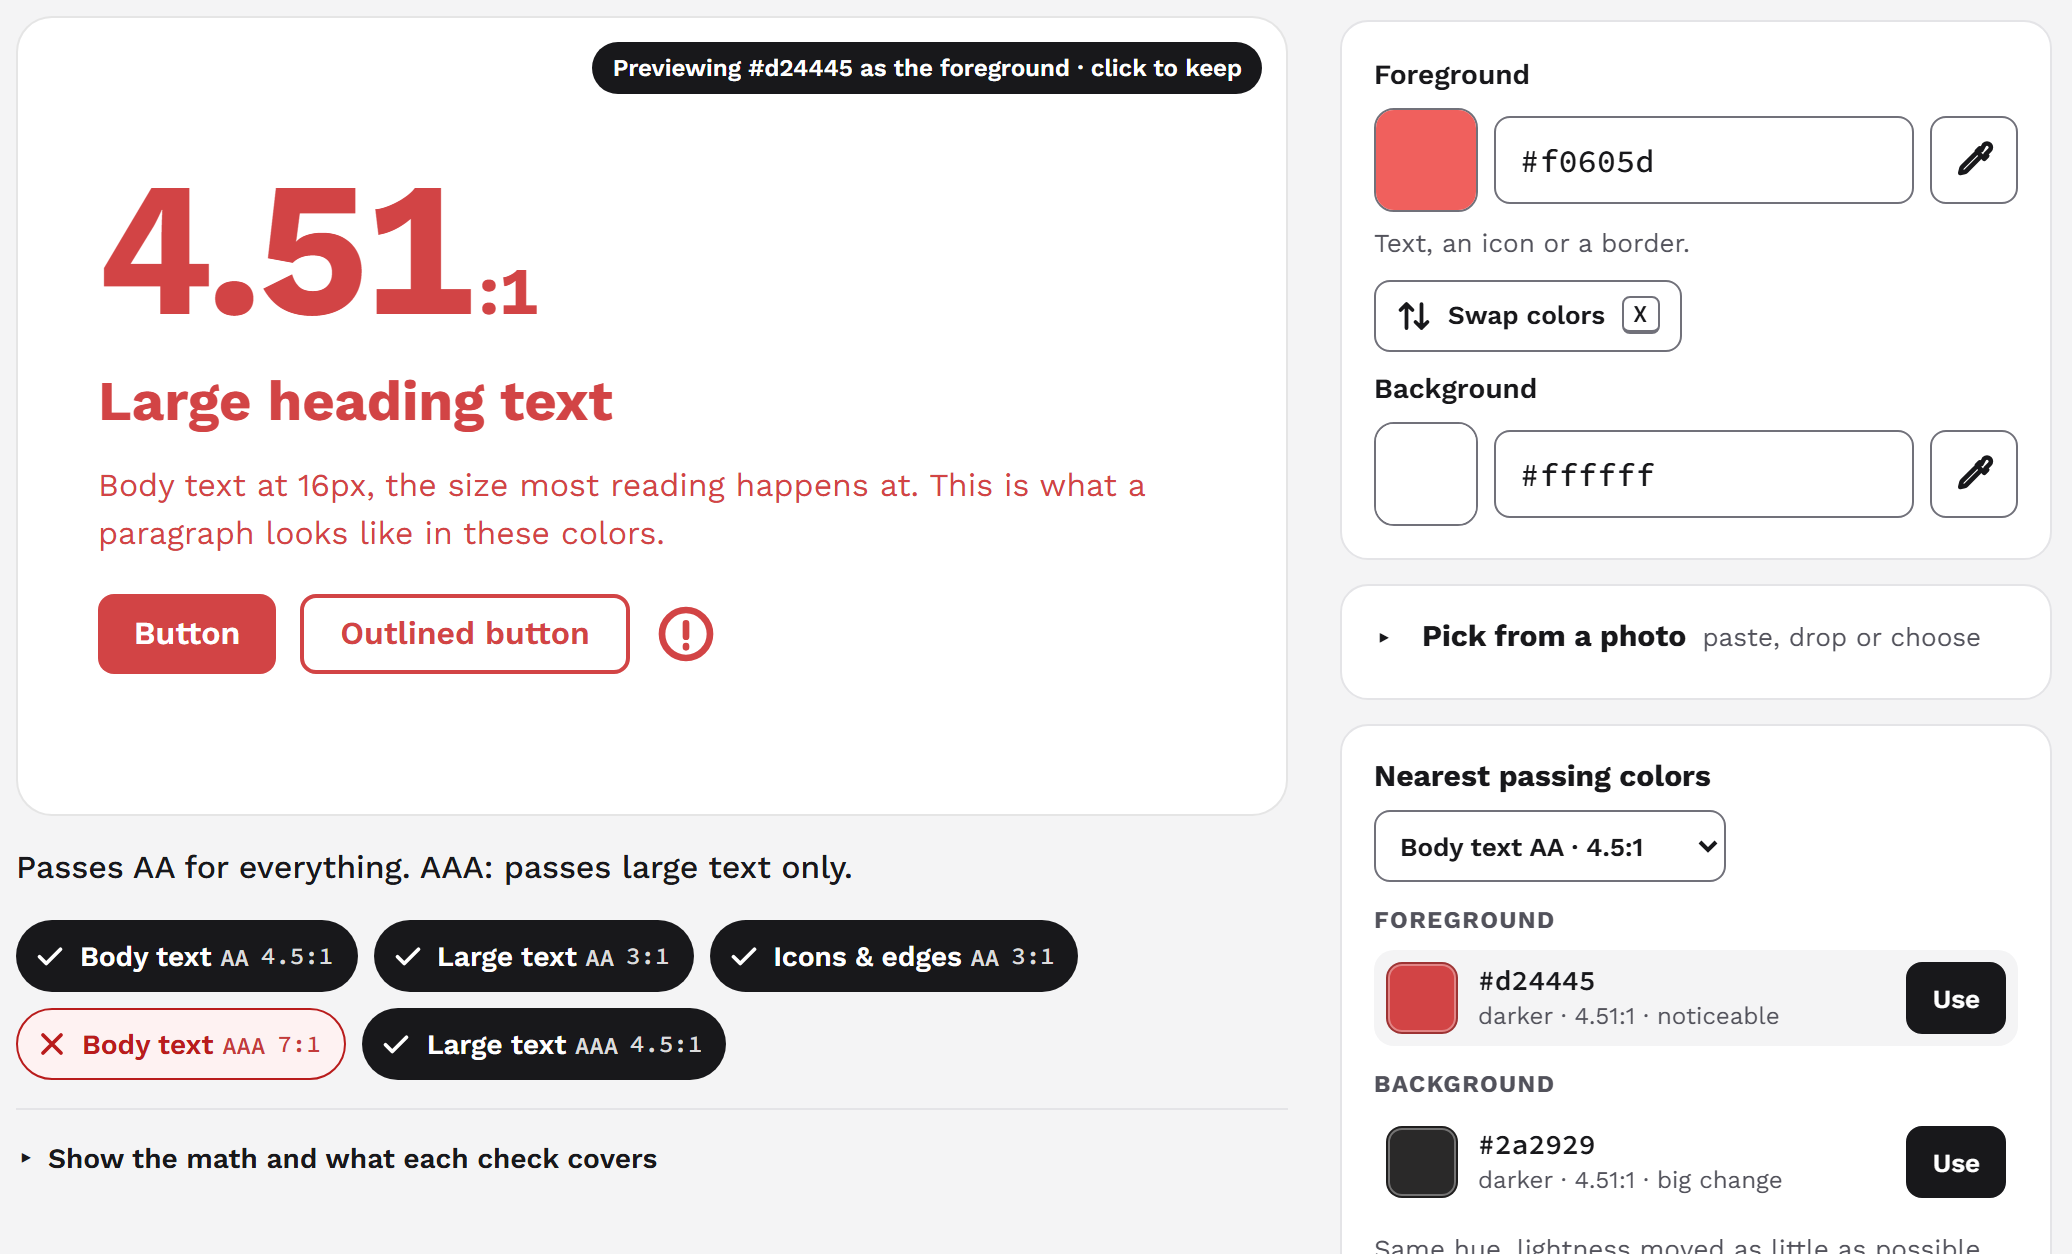
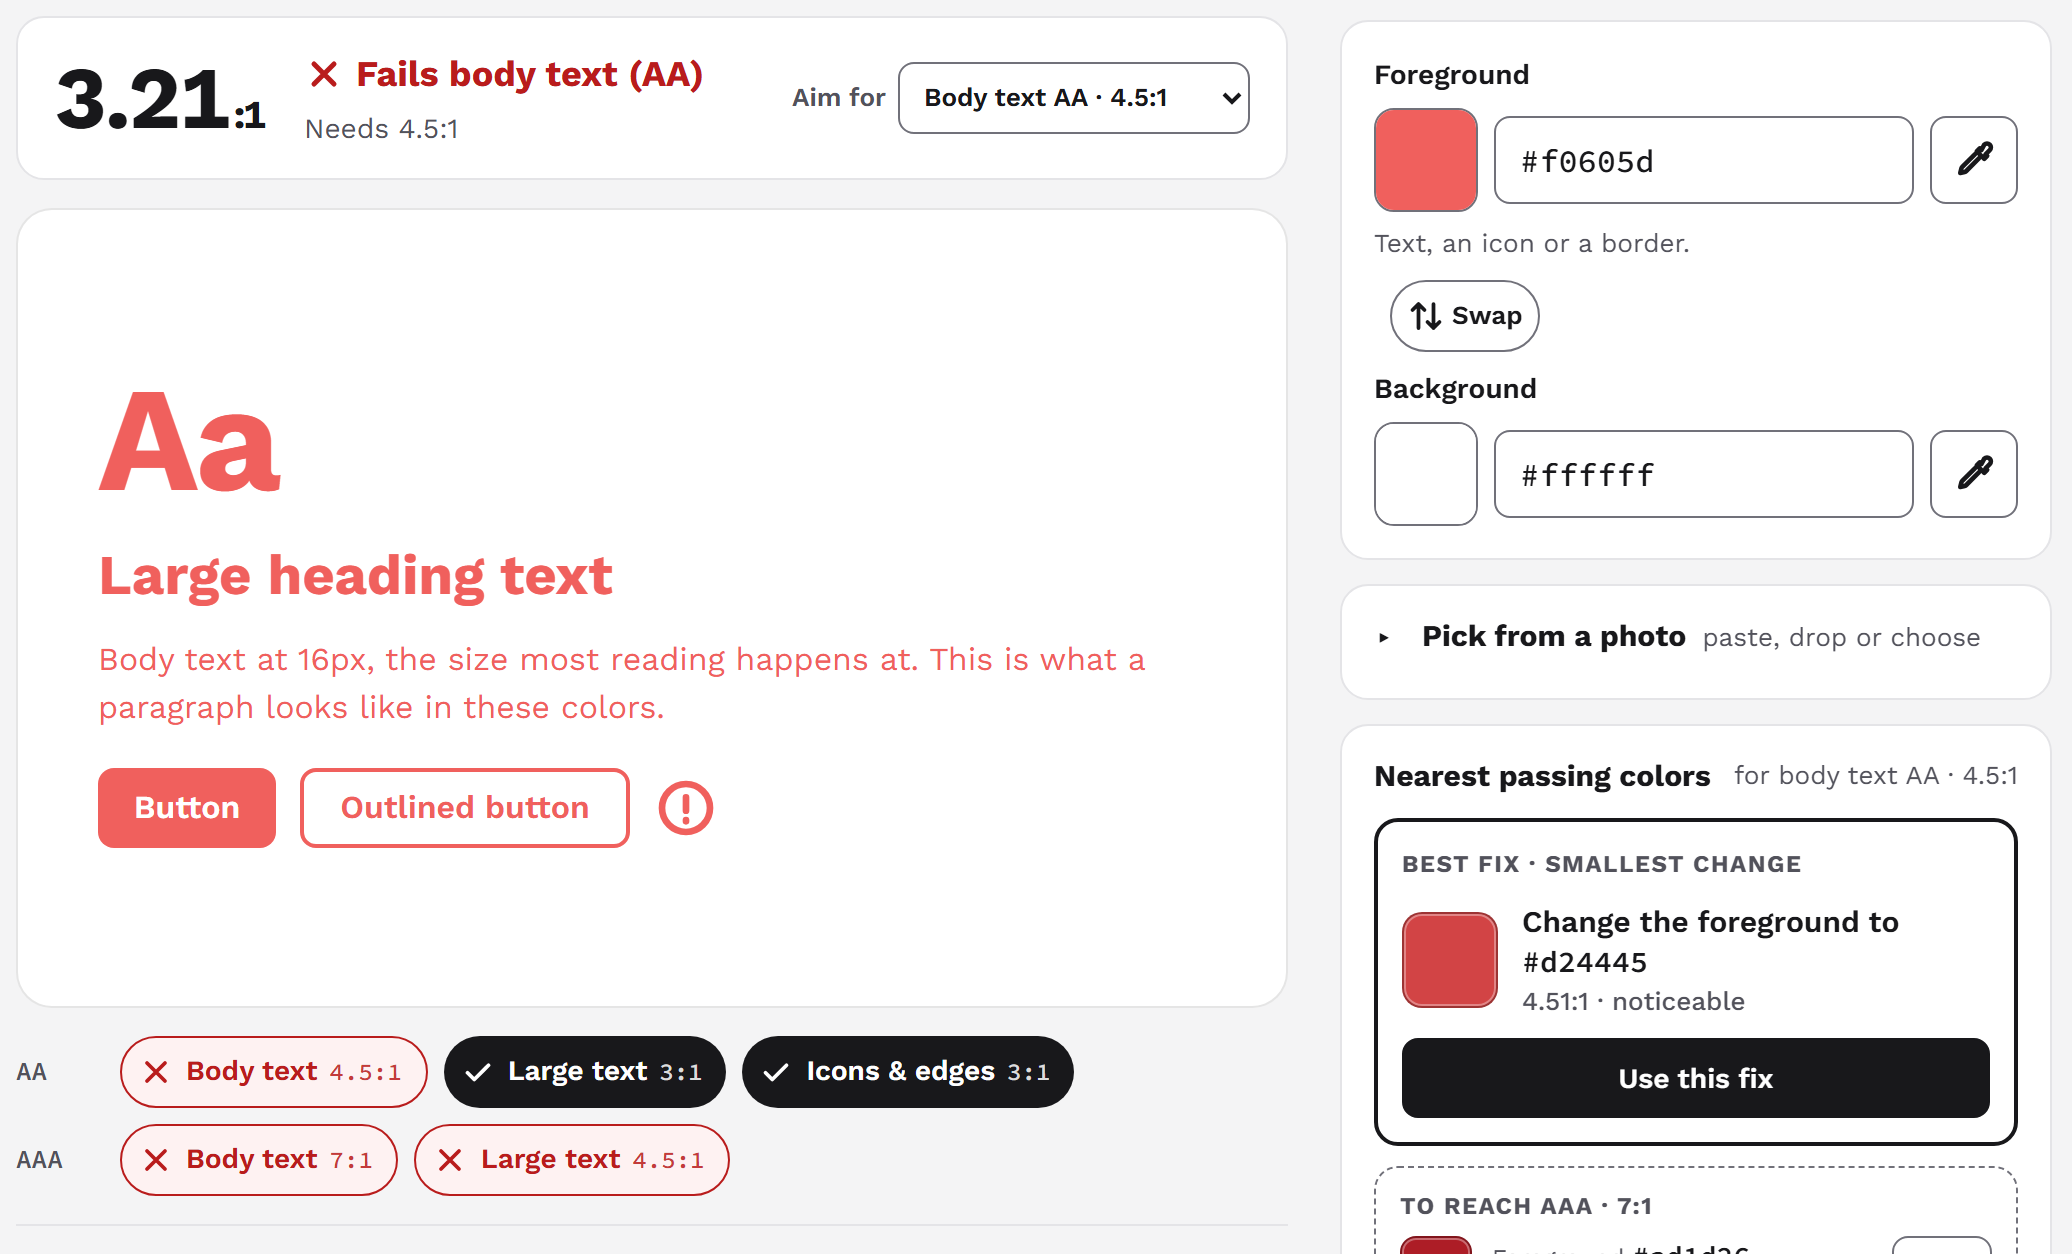
Accessibility audit as a permanent test; share image of the new design
- axe-core (WCAG 2.2 A/AA) on the pair checker, palette and photo workspace,
  desktop and phone: no violations
- The share image shows a failing pair with its best fix beside it

diff --git a/e2e/a11y.spec.ts b/e2e/a11y.spec.ts
@@ -1,0 +1,50 @@
+import AxeBuilder from "@axe-core/playwright";
+import { expect, test, type Page } from "@playwright/test";
+
+// An automated accessibility audit (axe-core, WCAG 2.2 A and AA rules) of each main state.
+// It catches what machines can catch (names, roles, contrast of the interface, structure); it
+// doesn't replace testing with a screen reader by hand.
+async function audit(page: Page) {
+  const results = await new AxeBuilder({ page })
+    .withTags(["wcag2a", "wcag2aa", "wcag21a", "wcag21aa", "wcag22aa"])
+    // The preview and the palette grid show the person's own colors on purpose, including pairs
+    // that fail; their contrast is the subject of the tool, not a defect in it.
+    .exclude(".canvas")
+    .exclude(".grid__sample")
+    .exclude(".pairs__sample")
+    .exclude(".sticky-bar__pair")
+    .exclude(".mini__sample")
+    .analyze();
+  const summary = results.violations.map(
+    (v) => `${v.id} (${v.impact}): ${v.nodes.map((n) => n.target.join(" ")).join(" | ")}`,
+  );
+  expect(summary).toEqual([]);
+}
+
+test("pair checker has no automated accessibility violations", async ({ page }) => {
+  await page.goto("./#pair=f0605d,ffffff");
+  await audit(page);
+});
+
+test("a passing pair, with the AAA step up, has none either", async ({ page }) => {
+  await page.goto("./#pair=767676,ffffff");
+  await audit(page);
+});
+
+test("palette view has no automated accessibility violations", async ({ page }) => {
+  await page.goto("./#palette=000052,ffdf3f,ffffff,f0605d");
+  await audit(page);
+});
+
+test("empty palette has none either", async ({ page }) => {
+  await page.goto("./");
+  await page.getByRole("tab", { name: "Check a palette" }).click();
+  await audit(page);
+});
+
+test("photo workspace has no automated accessibility violations", async ({ page }) => {
+  await page.goto("./#pair=f0605d,ffffff");
+  await page.locator('input[type="file"]').first().setInputFiles("e2e/fixtures/text-sample.png");
+  await expect(page.getByRole("dialog", { name: "Photo" })).toBeVisible();
+  await audit(page);
+});

diff --git a/index.html b/index.html
@@ -21,7 +21,7 @@
     <meta property="og:image:height" content="630" />
     <meta
       property="og:image:alt"
-      content="Contrast Lab: a coral text color on white, with the nearest passing shade previewed at 4.51 to 1 and the fixes panel beside it."
+      content="Contrast Lab: a coral text color on white fails body text at 3.21 to 1, with the best fix, #d24445 at 4.51 to 1, offered beside it."
     />
     %SHARE_URL_TAG% %SEO_TAGS%
     <meta name="author" content="Jay Fox" />
@@ -34,7 +34,7 @@
     <meta name="twitter:image" content="%SHARE_IMAGE%" />
     <meta
       name="twitter:image:alt"
-      content="Contrast Lab: a coral text color on white, with the nearest passing shade previewed at 4.51 to 1 and the fixes panel beside it."
+      content="Contrast Lab: a coral text color on white fails body text at 3.21 to 1, with the best fix, #d24445 at 4.51 to 1, offered beside it."
     />
     <link rel="icon" href="./favicon.svg" type="image/svg+xml" />
     <link rel="preconnect" href="https://fonts.googleapis.com" />

diff --git a/README.md b/README.md
@@ -1,6 +1,6 @@
 # Contrast Lab
 
-![Contrast Lab: a coral text color on white, with the nearest passing shade previewed at 4.51:1 and the fixes panel beside it](public/og-image.png)
+![Contrast Lab: a coral text color on white fails body text at 3.21 to 1, with the best fix, #d24445 at 4.51 to 1, offered beside it.](public/og-image.png)
 
 Check a text color and a background against the WCAG 2.2 contrast rules, see the math, and get
 the **nearest colors that pass** instead of just a fail. Or check a whole palette at once and
@@ -95,7 +95,7 @@ node scripts/share-image.mjs        # rebuilds public/og-image.png from docs/sha
   text on dark, a backwards box); palette extraction (main colors of a noisy image in
   order, the same answer every time, specks dropped, a cap on count) and box colors;
   recent colors.
-- **63 browser tests** (Playwright, desktop Chrome and Pixel 7 emulation, against the built
+- **73 browser tests** (Playwright, desktop Chrome and Pixel 7 emulation, against the built
   site): no page errors, using a suggestion fixes the pair, typos explain themselves, swap,
   links reopen a check (including a link pasted into the same tab), the palette grid and
   opening a cell, arrow keys on the tabs, nothing wider than the screen, control sizes; the photo
@@ -105,6 +105,11 @@ node scripts/share-image.mjs        # rebuilds public/og-image.png from docs/sha
 - **Its own colors:** every text and control color in the interface was run through the engine
   and passes AA.
 - **Looked at** in screenshots at 1440×900 and on a Pixel 7 size, both modes.
+
+- **Automated accessibility audit** (axe-core, WCAG 2.2 A/AA rules) of the pair checker
+  (failing and passing), the palette (full and empty) and the photo workspace, on desktop and
+  phone: no violations. The preview and swatches showing the person's own colors are excluded,
+  since their contrast is the subject, not a defect.
 
 ## Not tested yet
 
